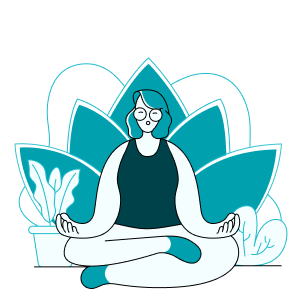
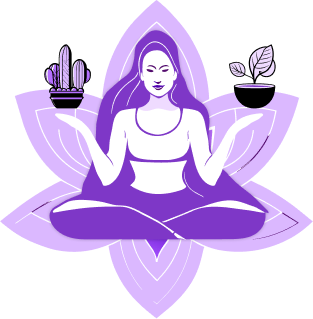
style: Change the slide styles and illustrations

diff --git a/components/Slides/index.jsx b/components/Slides/index.jsx
@@ -20,11 +20,11 @@ const Slides = ({ current_slide, nextSlide, prevSlide }) => {
       styles: {
         background: theme.colors.primaryContainer,
         check_background: theme.colors.primary,
-        check_color: theme.colors.primary,
+        check_color: theme.colors.background,
       },
       content: {
         img: require("../../assets/Images/Slides/Illustration_1.png"),
-        title: "Planeje seu dia",
+        title: "Planeje suas compras",
         subtitle: "Comece marcando o incio de um ciclo de produtividade!",
       },
       check: false,
@@ -33,12 +33,13 @@ const Slides = ({ current_slide, nextSlide, prevSlide }) => {
       styles: {
         background: theme.colors.tertiaryContainer,
         check_background: theme.colors.tertiary,
-        check_color: theme.colors.tertiary,
+        check_color: theme.colors.background,
       },
       content: {
         img: require("../../assets/Images/Slides/Illustration_2.png"),
-        title: "Não se sobrecarregue",
-        subtitle: "Marque o fim da dependência exclusiva do seu cérebro!",
+        title: "Evite anotações físicas",
+        subtitle:
+          "Marque o fim da dependência exclusiva de papel para anotar suas compras!",
       },
       check: false,
     },
@@ -46,7 +47,7 @@ const Slides = ({ current_slide, nextSlide, prevSlide }) => {
       styles: {
         background: theme.colors.errorContainer,
         check_background: theme.colors.error,
-        check_color: theme.colors.error,
+        check_color: theme.colors.background,
       },
       content: {
         img: require("../../assets/Images/Slides/Illustration_3.png"),
@@ -70,10 +71,10 @@ const Slides = ({ current_slide, nextSlide, prevSlide }) => {
       <Slide_image source={slide_pages[current_slide].content.img} />
 
       <Slide_Text_View>
-        <Slide_title color={theme.colors.onBackground}>
+        <Slide_title variant='headlineMedium' color={theme.colors.onBackground}>
           {slide_pages[current_slide].content.title}
         </Slide_title>
-        <Slide_subtitle color={theme.colors.onSurface}>
+        <Slide_subtitle variant='titleMedium' color={theme.colors.onSurface}>
           {slide_pages[current_slide].content.subtitle}
         </Slide_subtitle>
       </Slide_Text_View>

diff --git a/components/Slides/styles.js b/components/Slides/styles.js
@@ -1,8 +1,5 @@
 import { styled } from "styled-components/native";
-import {
-  responsiveFontSize,
-  responsiveHeight,
-} from "react-native-responsive-dimensions";
+import { Text } from "react-native-paper";
 
 export const Slides_container = styled.View`
   flex: 1;
@@ -26,30 +23,23 @@ export const Slide_Text_View = styled.View`
   transition: all 0.5s ease-in-out;
 `;
 
-export const Slide_title = styled.Text`
+export const Slide_title = styled(Text)`
   color: ${({ color }) => color};
   text-align: center;
-  font-size: ${() => responsiveFontSize(3.5)}px;
-
-  font-family: sans-serif;
-  font-style: normal;
-  font-weight: 700;
+  font-weight: bold;
   text-transform: capitalize;
 `;
 
-export const Slide_subtitle = styled.Text`
+export const Slide_subtitle = styled(Text)`
   display: flex;
   width: 335px;
   padding: 10px;
   flex-direction: column;
   justify-content: center;
+
   color: ${({ color }) => color};
   text-align: center;
-  font-size: ${() => responsiveFontSize(2)}px;
-  font-family: Roboto;
-  font-style: normal;
-  font-weight: 400;
-  letter-spacing: 0.64px;
+  font-weight: normal;
   text-transform: capitalize;
 `;
 
